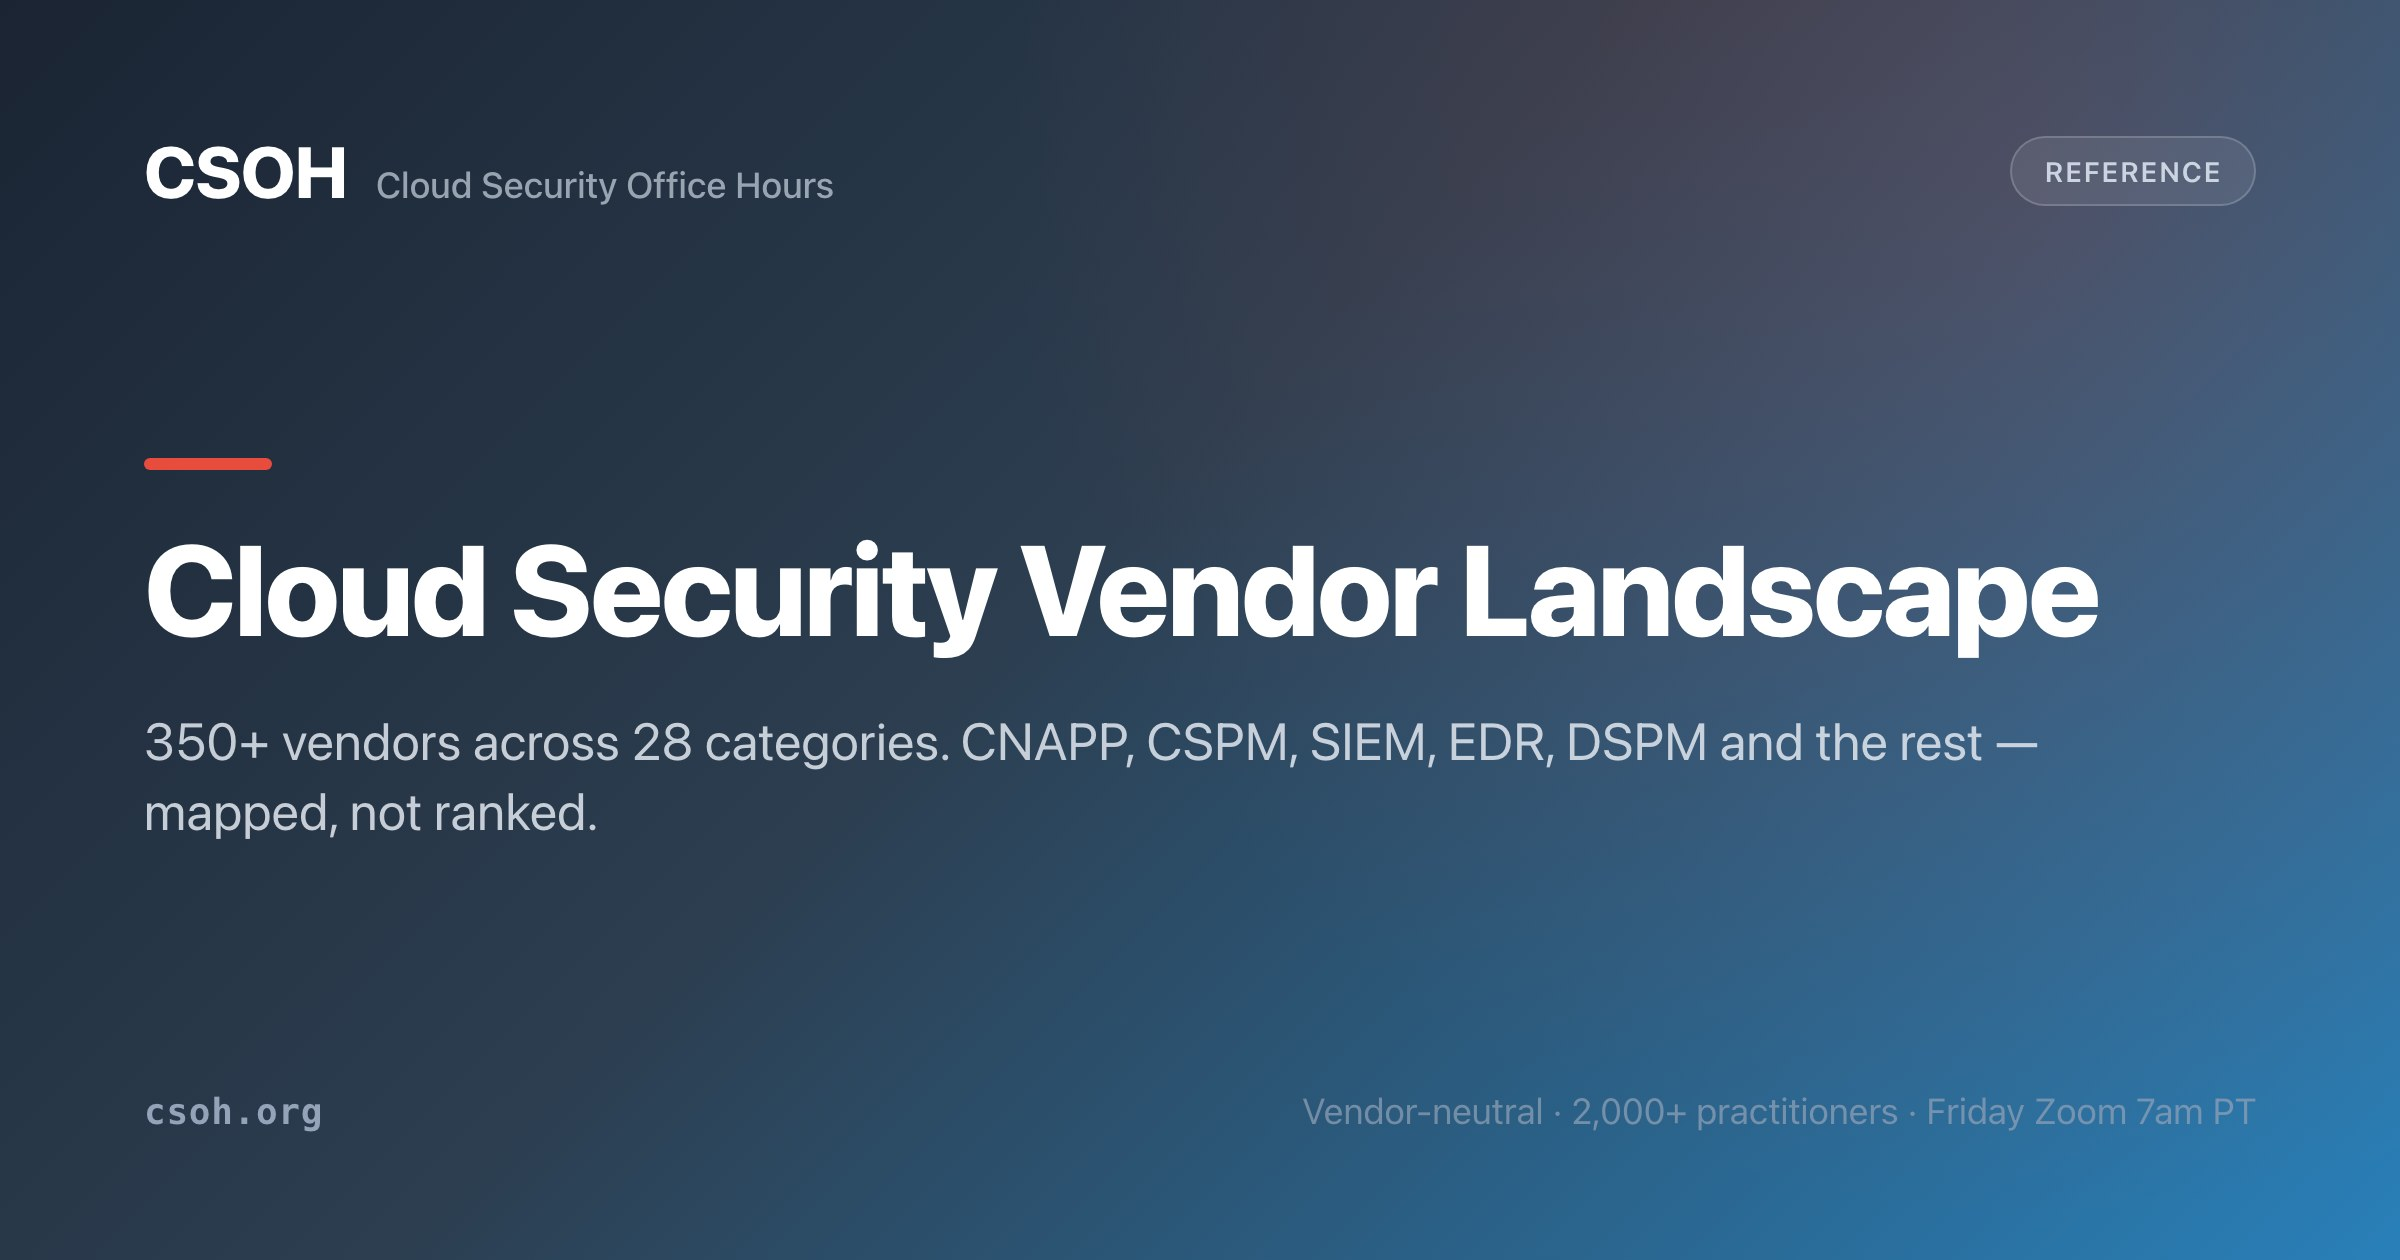
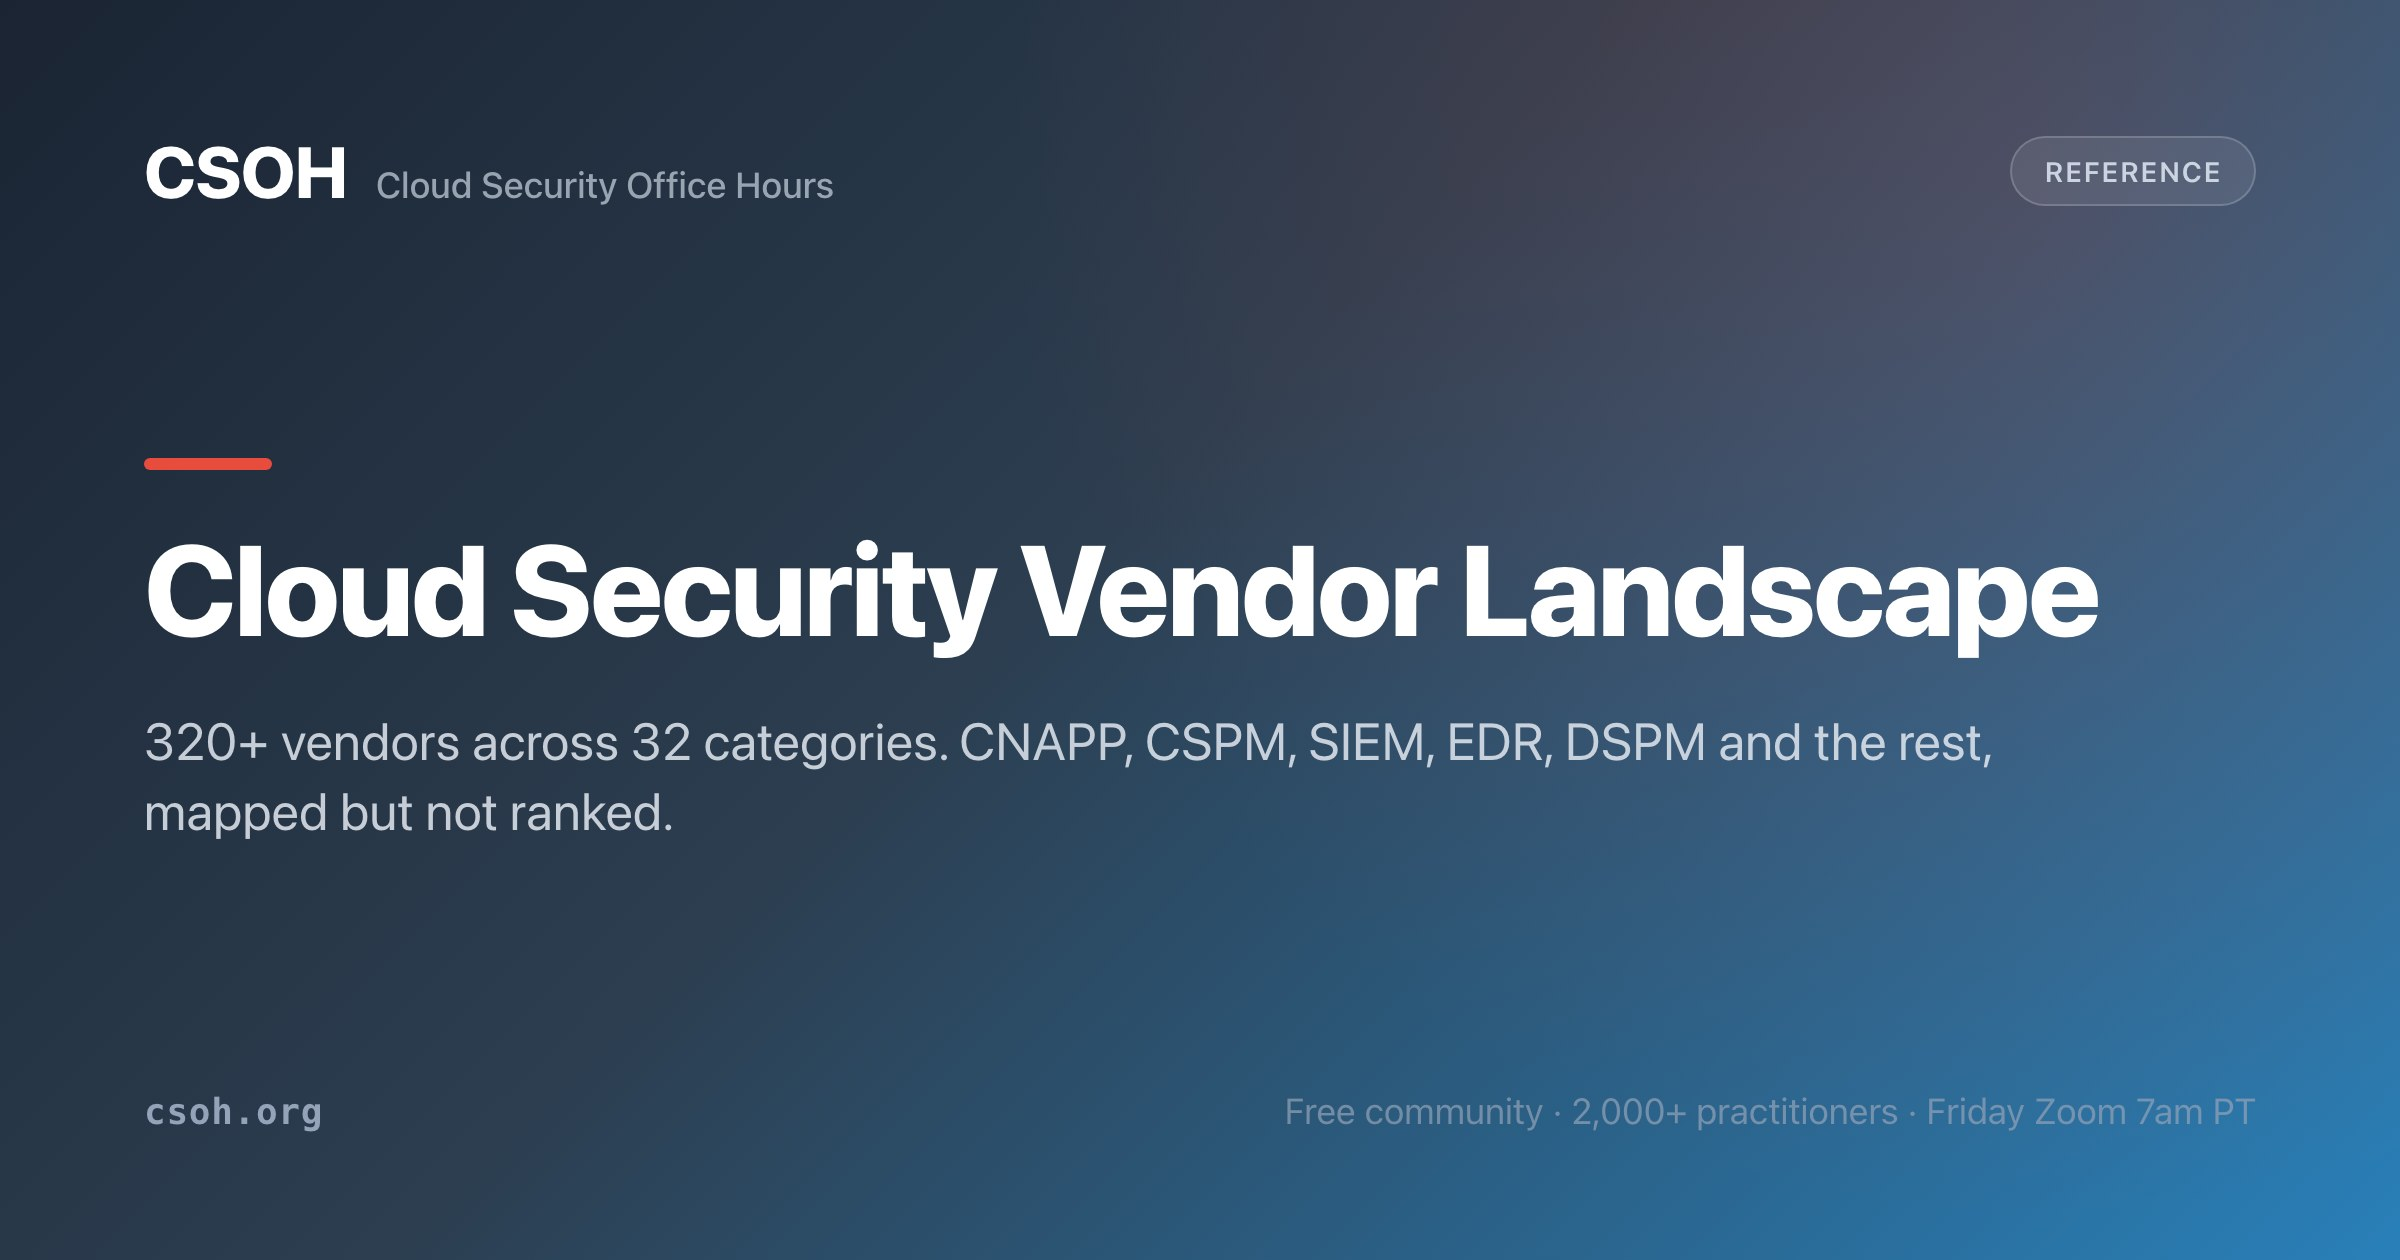
Preview cards, modified dates and a quote dash the last updates missed
Five social preview cards carried text that no longer matched their
pages: breach-lessons said 13 breaches (the page says 64), news and rss
said 39 sources (63 feeds), vendor-landscape said 350+ vendors in 28
categories (320+ in 32), and the about card gave a years-in-industry
figure the bio deliberately avoids; it now uses the page's own
description. rss.html's <title> also said 39 sources. All five images
are re-rendered.

sync_counts.py now owns the breach, feed and vendor numbers on those
cards and the rss <title>, and update-counts.yml re-renders those cards
when their text moves, so the next kill chain or feed cannot leave them
behind. Control: planting the old numbers made --check fail and a run
restored the files byte for byte, touching no other card.

dateModified, article:modified_time and the visible "Last updated" move
to 2026-11-23 on the pages changed that day: the 2026 review and the
year-in-review hub (still Nov 9), breach-timeline, breach-lessons,
breach-kill-chain-decks, and the fourteen breach pages that gained a
victims sentence.

The Rajas Bakshi quote on the homepage credited him with an em dash;
it now matches the other quotes' "- Name".

diff --git a/cloud-breach-year-in-review-2026-h1.html b/cloud-breach-year-in-review-2026-h1.html
@@ -28,7 +28,7 @@
     <meta property="og:locale" content="en_US">
     <meta property="og:type" content="article">
     <meta property="article:published_time" content="2026-07-26">
-    <meta property="article:modified_time" content="2026-11-09">
+    <meta property="article:modified_time" content="2026-11-23">
     <meta property="article:author" content="Shawn Nunley">
     <meta property="article:section" content="Threat Intelligence">
     <meta property="og:url" content="https://csoh.org/cloud-breach-year-in-review-2026-h1.html">
@@ -70,7 +70,7 @@
     }
   },
   "datePublished": "2026-07-26",
-  "dateModified": "2026-11-09",
+  "dateModified": "2026-11-23",
   "mainEntityOfPage": "https://csoh.org/cloud-breach-year-in-review-2026-h1.html",
   "image": "https://csoh.org/banner.png",
   "articleSection": "Threat Intelligence",
@@ -315,7 +315,7 @@
 
         <main class="container contribute-article" id="main-content">
 
-<p class="page-meta"><time datetime="2026-11-09">Last updated <strong>2026-11-09</strong></time> · <a href="about-shawn-nunley.html" rel="author">By Shawn Nunley</a> · Analysis · <a href="https://github.com/CloudSecurityOfficeHours/csoh.org" target="_blank" rel="noopener noreferrer">View source on GitHub</a></p>
+<p class="page-meta"><time datetime="2026-11-23">Last updated <strong>2026-11-23</strong></time> · <a href="about-shawn-nunley.html" rel="author">By Shawn Nunley</a> · Analysis · <a href="https://github.com/CloudSecurityOfficeHours/csoh.org" target="_blank" rel="noopener noreferrer">View source on GitHub</a></p>
 
 <div class="info-box--blue">
 <p><strong>This review covers January to late November 2026 and is provisional.</strong> It began in July as a mid-year review of nine kill chains and now covers every 2026 incident on the <a href="breach-timeline.html">breach timeline</a> through November 23. The complete 2026 review replaces it in January 2027. Where a later record overturned something the mid-year version said, the text below follows the newer record and says what changed.</p>

diff --git a/cloud-breach-year-in-review.html b/cloud-breach-year-in-review.html
@@ -26,7 +26,7 @@
     <meta property="og:locale" content="en_US">
     <meta property="og:type" content="article">
     <meta property="article:published_time" content="2026-07-26">
-    <meta property="article:modified_time" content="2026-11-09">
+    <meta property="article:modified_time" content="2026-11-23">
     <meta property="article:author" content="Shawn Nunley">
     <meta property="article:section" content="Threat Intelligence">
     <meta property="og:url" content="https://csoh.org/cloud-breach-year-in-review.html">
@@ -68,7 +68,7 @@
     }
   },
   "datePublished": "2026-07-26",
-  "dateModified": "2026-11-09",
+  "dateModified": "2026-11-23",
   "mainEntityOfPage": "https://csoh.org/cloud-breach-year-in-review.html",
   "image": "https://csoh.org/banner.png",
   "articleSection": "Threat Intelligence",
@@ -313,7 +313,7 @@
 
         <main class="container contribute-article" id="main-content">
 
-<p class="page-meta"><time datetime="2026-11-09">Last updated <strong>2026-11-09</strong></time> · <a href="about-shawn-nunley.html" rel="author">By Shawn Nunley</a> · Analysis · <a href="https://github.com/CloudSecurityOfficeHours/csoh.org" target="_blank" rel="noopener noreferrer">View source on GitHub</a></p>
+<p class="page-meta"><time datetime="2026-11-23">Last updated <strong>2026-11-23</strong></time> · <a href="about-shawn-nunley.html" rel="author">By Shawn Nunley</a> · Analysis · <a href="https://github.com/CloudSecurityOfficeHours/csoh.org" target="_blank" rel="noopener noreferrer">View source on GitHub</a></p>
 
 <div class="info-box--blue">
 <p>Each year gets its own review: the incidents that defined it, the themes connecting them, and what they changed about where defenders spend effort. The full step-by-step reconstructions live on the <a href="breach-timeline.html">breach kill chains</a> page, and the cross-year synthesis (the patterns that recur regardless of era) is in <a href="breach-lessons.html">Lessons From 65 Cloud Breaches</a>.</p>

diff --git a/breach-lessons.html b/breach-lessons.html
@@ -29,7 +29,7 @@
     <meta property="og:locale" content="en_US">
     <meta property="og:type" content="article">
     <meta property="article:published_time" content="2026-07-05">
-    <meta property="article:modified_time" content="2026-11-22">
+    <meta property="article:modified_time" content="2026-11-23">
     <meta property="article:author" content="Shawn Nunley">
     <meta property="article:section" content="Analysis">
     <meta property="article:tag" content="breaches">
@@ -76,7 +76,7 @@
         }
       },
       "datePublished": "2026-07-05",
-      "dateModified": "2026-11-22",
+      "dateModified": "2026-11-23",
       "mainEntityOfPage": "https://csoh.org/breach-lessons.html",
       "speakable": {
         "@type": "SpeakableSpecification",
@@ -334,7 +334,7 @@
 
     <main class="container contribute-article" id="main-content">
 
-<p class="page-meta"><time datetime="2026-11-22">Last updated <strong>2026-11-22</strong></time> · <a href="about-shawn-nunley.html" rel="author">By Shawn Nunley</a> · Analysis · <a href="https://github.com/CloudSecurityOfficeHours/csoh.org" target="_blank" rel="noopener noreferrer">View source on GitHub</a></p>
+<p class="page-meta"><time datetime="2026-11-23">Last updated <strong>2026-11-23</strong></time> · <a href="about-shawn-nunley.html" rel="author">By Shawn Nunley</a> · Analysis · <a href="https://github.com/CloudSecurityOfficeHours/csoh.org" target="_blank" rel="noopener noreferrer">View source on GitHub</a></p>
 
 <div class="info-box--blue">
 <p>This site keeps a set of detailed cloud breach kill chains, each one walked step by step from <a class="glossary-link" href="glossary.html#term-initial-access">initial access</a> to impact. Read them one at a time and each feels unique. Read them together and something uncomfortable happens: the same handful of mistakes show up over and over, across three decades, across every major cloud, against companies with real security budgets.</p>

diff --git a/breaches/snowflake-unc5537.html b/breaches/snowflake-unc5537.html
@@ -24,7 +24,7 @@
     <meta property="og:locale" content="en_US">
     <meta property="og:type" content="article">
     <meta property="article:published_time" content="2026-04-30">
-    <meta property="article:modified_time" content="2026-11-22">
+    <meta property="article:modified_time" content="2026-11-23">
     <meta property="article:author" content="Cloud Security Office Hours">
     <meta property="article:section" content="Breach Kill Chains">
     <meta property="article:tag" content="Snowflake / UNC5537 2024">
@@ -77,7 +77,7 @@
         }
       },
       "datePublished": "2026-04-30",
-      "dateModified": "2026-11-22",
+      "dateModified": "2026-11-23",
       "mainEntityOfPage": "https://csoh.org/breaches/snowflake-unc5537.html",
       "speakable": {
         "@type": "SpeakableSpecification",

diff --git a/breaches/capital-one.html b/breaches/capital-one.html
@@ -24,7 +24,7 @@
     <meta property="og:locale" content="en_US">
     <meta property="og:type" content="article">
     <meta property="article:published_time" content="2026-04-30">
-    <meta property="article:modified_time" content="2026-11-22">
+    <meta property="article:modified_time" content="2026-11-23">
     <meta property="article:author" content="Cloud Security Office Hours">
     <meta property="article:section" content="Breach Kill Chains">
     <meta property="article:tag" content="Capital One 2019">
@@ -77,7 +77,7 @@
         }
       },
       "datePublished": "2026-04-30",
-      "dateModified": "2026-11-22",
+      "dateModified": "2026-11-23",
       "mainEntityOfPage": "https://csoh.org/breaches/capital-one.html",
       "speakable": {
         "@type": "SpeakableSpecification",

diff --git a/breaches/lastpass.html b/breaches/lastpass.html
@@ -24,7 +24,7 @@
     <meta property="og:locale" content="en_US">
     <meta property="og:type" content="article">
     <meta property="article:published_time" content="2026-04-30">
-    <meta property="article:modified_time" content="2026-11-22">
+    <meta property="article:modified_time" content="2026-11-23">
     <meta property="article:author" content="Cloud Security Office Hours">
     <meta property="article:section" content="Breach Kill Chains">
     <meta property="article:tag" content="LastPass 2022-23">
@@ -77,7 +77,7 @@
         }
       },
       "datePublished": "2026-04-30",
-      "dateModified": "2026-11-22",
+      "dateModified": "2026-11-23",
       "mainEntityOfPage": "https://csoh.org/breaches/lastpass.html",
       "speakable": {
         "@type": "SpeakableSpecification",

diff --git a/breaches/midnight-blizzard-microsoft.html b/breaches/midnight-blizzard-microsoft.html
@@ -24,7 +24,7 @@
     <meta property="og:locale" content="en_US">
     <meta property="og:type" content="article">
     <meta property="article:published_time" content="2026-04-30">
-    <meta property="article:modified_time" content="2026-11-22">
+    <meta property="article:modified_time" content="2026-11-23">
     <meta property="article:author" content="Cloud Security Office Hours">
     <meta property="article:section" content="Breach Kill Chains">
     <meta property="article:tag" content="Midnight Blizzard">
@@ -79,7 +79,7 @@
     }
   },
   "datePublished": "2026-04-30",
-  "dateModified": "2026-11-22",
+  "dateModified": "2026-11-23",
   "mainEntityOfPage": "https://csoh.org/breaches/midnight-blizzard-microsoft.html",
   "speakable": {
     "@type": "SpeakableSpecification",

diff --git a/breaches/codecov-bash-uploader.html b/breaches/codecov-bash-uploader.html
@@ -24,7 +24,7 @@
     <meta property="og:locale" content="en_US">
     <meta property="og:type" content="article">
     <meta property="article:published_time" content="2026-04-30">
-    <meta property="article:modified_time" content="2026-11-22">
+    <meta property="article:modified_time" content="2026-11-23">
     <meta property="article:author" content="Cloud Security Office Hours">
     <meta property="article:section" content="Breach Kill Chains">
     <meta property="article:tag" content="Codecov breach 2021">
@@ -78,7 +78,7 @@
     }
   },
   "datePublished": "2026-04-30",
-  "dateModified": "2026-11-22",
+  "dateModified": "2026-11-23",
   "mainEntityOfPage": "https://csoh.org/breaches/codecov-bash-uploader.html",
   "speakable": {
     "@type": "SpeakableSpecification",

diff --git a/breaches/shai-hulud-npm-worm.html b/breaches/shai-hulud-npm-worm.html
@@ -24,7 +24,7 @@
     <meta property="og:locale" content="en_US">
     <meta property="og:type" content="article">
     <meta property="article:published_time" content="2026-07-26">
-    <meta property="article:modified_time" content="2026-11-22">
+    <meta property="article:modified_time" content="2026-11-23">
     <meta property="article:author" content="Cloud Security Office Hours">
     <meta property="article:section" content="Breach Kill Chains">
     <meta property="article:tag" content="Shai-Hulud npm worm">
@@ -79,7 +79,7 @@
     }
   },
   "datePublished": "2026-07-26",
-  "dateModified": "2026-11-22",
+  "dateModified": "2026-11-23",
   "mainEntityOfPage": "https://csoh.org/breaches/shai-hulud-npm-worm.html",
   "speakable": {
     "@type": "SpeakableSpecification",

diff --git a/breaches/kaseya-vsa-revil.html b/breaches/kaseya-vsa-revil.html
@@ -24,7 +24,7 @@
     <meta property="og:locale" content="en_US">
     <meta property="og:type" content="article">
     <meta property="article:published_time" content="2026-04-30">
-    <meta property="article:modified_time" content="2026-11-22">
+    <meta property="article:modified_time" content="2026-11-23">
     <meta property="article:author" content="Cloud Security Office Hours">
     <meta property="article:section" content="Breach Kill Chains">
     <meta property="article:tag" content="Kaseya VSA ransomware">
@@ -79,7 +79,7 @@
     }
   },
   "datePublished": "2026-04-30",
-  "dateModified": "2026-11-22",
+  "dateModified": "2026-11-23",
   "mainEntityOfPage": "https://csoh.org/breaches/kaseya-vsa-revil.html",
   "speakable": {
     "@type": "SpeakableSpecification",

diff --git a/breaches/3cx-x-trader.html b/breaches/3cx-x-trader.html
@@ -24,7 +24,7 @@
     <meta property="og:locale" content="en_US">
     <meta property="og:type" content="article">
     <meta property="article:published_time" content="2026-04-30">
-    <meta property="article:modified_time" content="2026-11-22">
+    <meta property="article:modified_time" content="2026-11-23">
     <meta property="article:author" content="Cloud Security Office Hours">
     <meta property="article:section" content="Breach Kill Chains">
     <meta property="article:tag" content="3CX supply chain attack">
@@ -78,7 +78,7 @@
     }
   },
   "datePublished": "2026-04-30",
-  "dateModified": "2026-11-22",
+  "dateModified": "2026-11-23",
   "mainEntityOfPage": "https://csoh.org/breaches/3cx-x-trader.html",
   "speakable": {
     "@type": "SpeakableSpecification",

diff --git a/breaches/sharepoint-toolshell.html b/breaches/sharepoint-toolshell.html
@@ -24,7 +24,7 @@
     <meta property="og:locale" content="en_US">
     <meta property="og:type" content="article">
     <meta property="article:published_time" content="2026-04-30">
-    <meta property="article:modified_time" content="2026-11-22">
+    <meta property="article:modified_time" content="2026-11-23">
     <meta property="article:author" content="Cloud Security Office Hours">
     <meta property="article:section" content="Breach Kill Chains">
     <meta property="article:tag" content="CVE-2025-53770">
@@ -79,7 +79,7 @@
     }
   },
   "datePublished": "2026-04-30",
-  "dateModified": "2026-11-22",
+  "dateModified": "2026-11-23",
   "mainEntityOfPage": "https://csoh.org/breaches/sharepoint-toolshell.html",
   "speakable": {
     "@type": "SpeakableSpecification",
